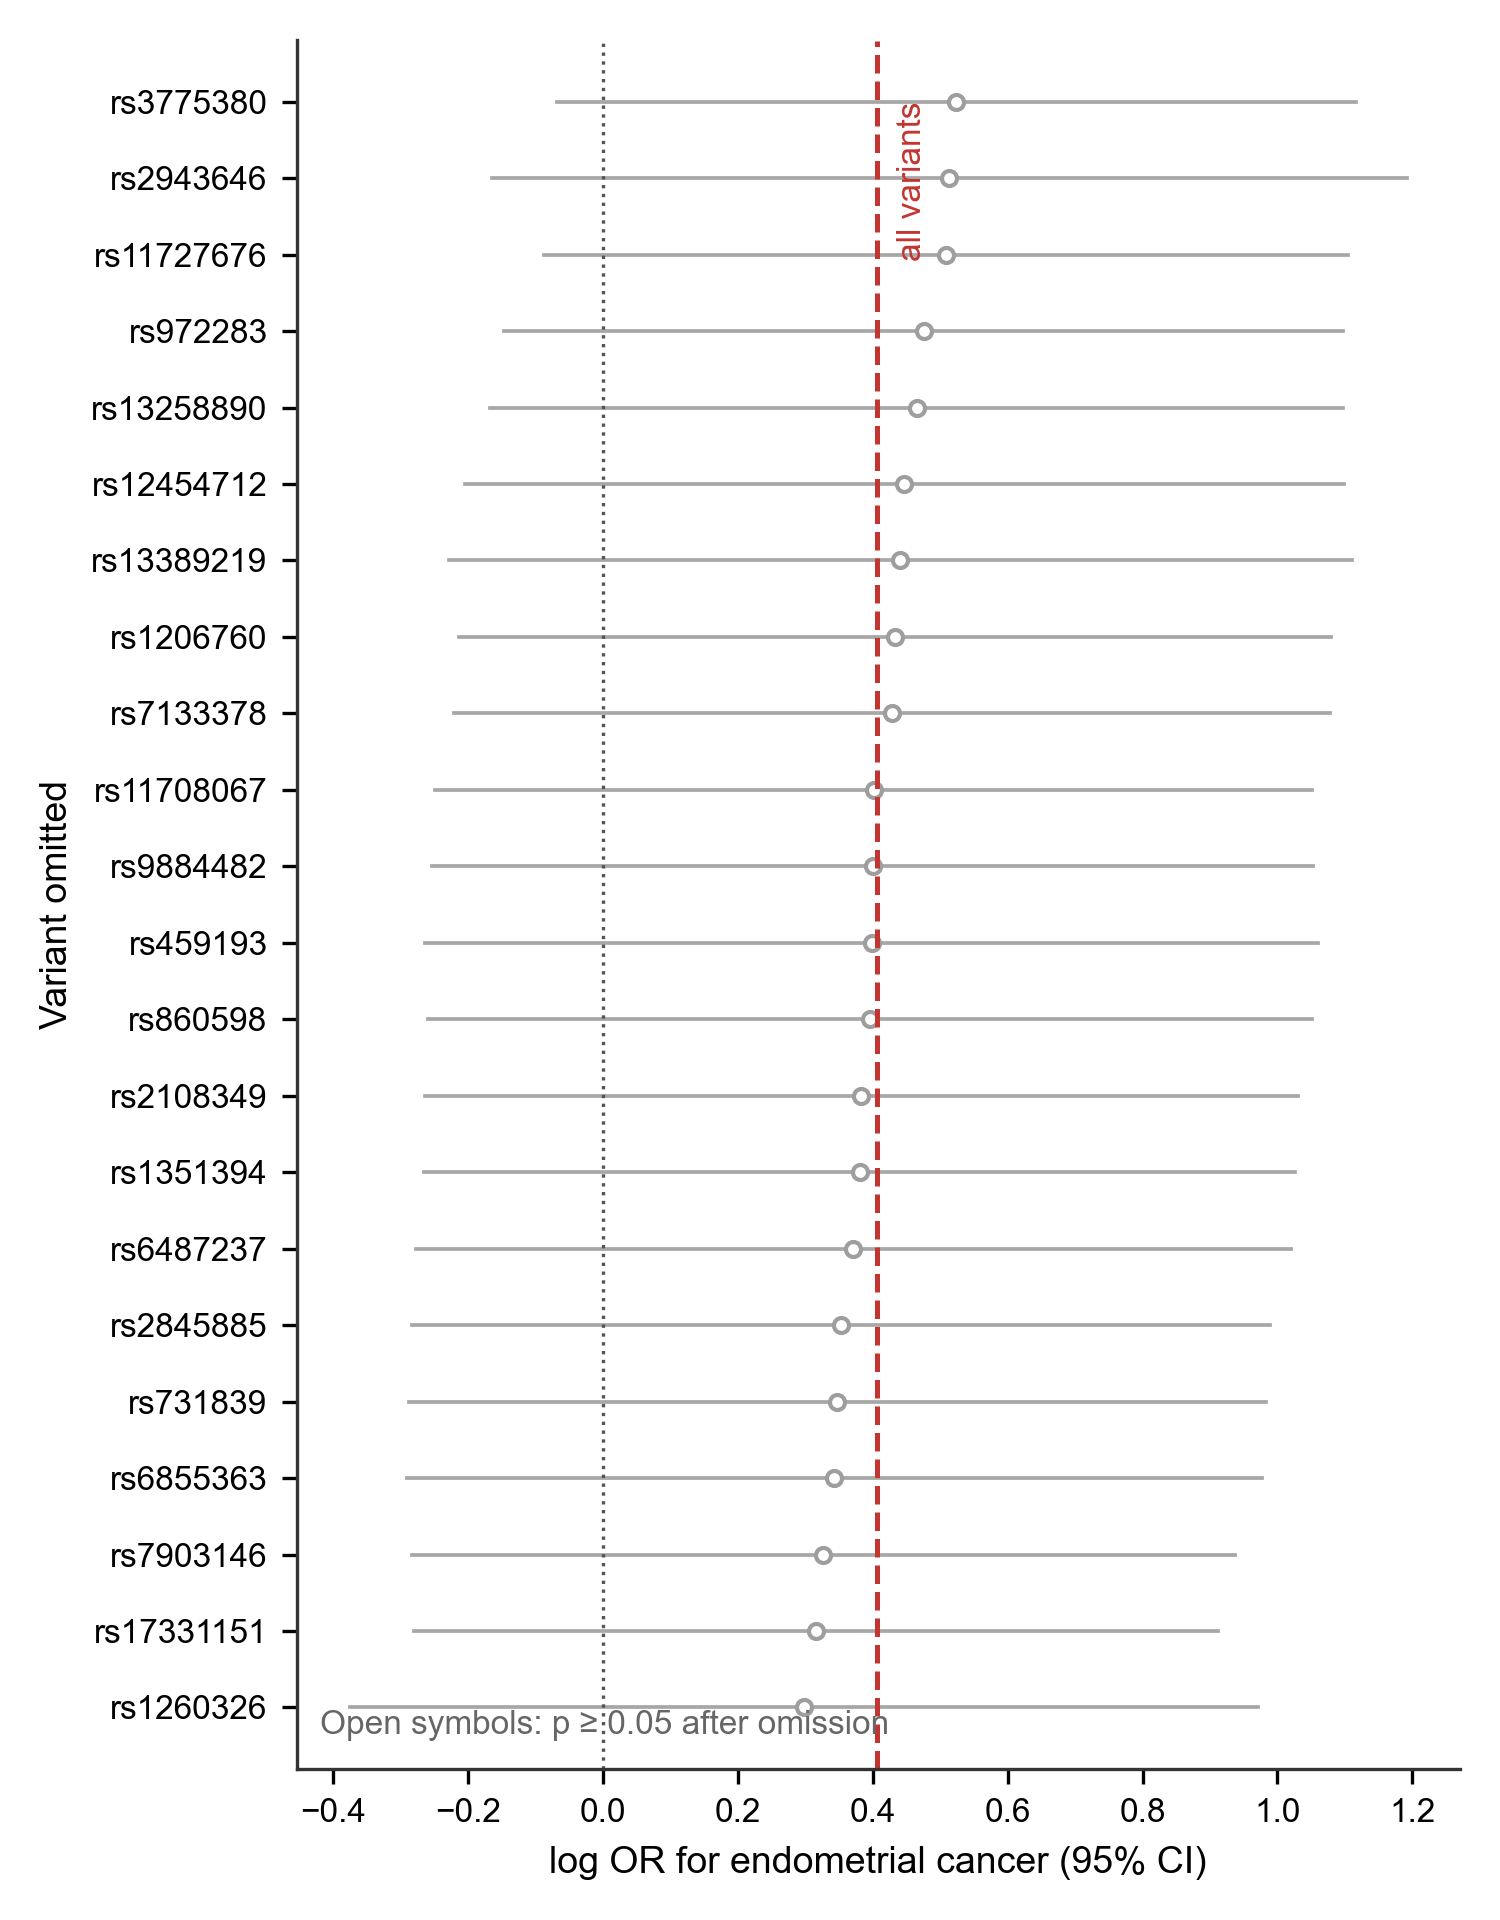
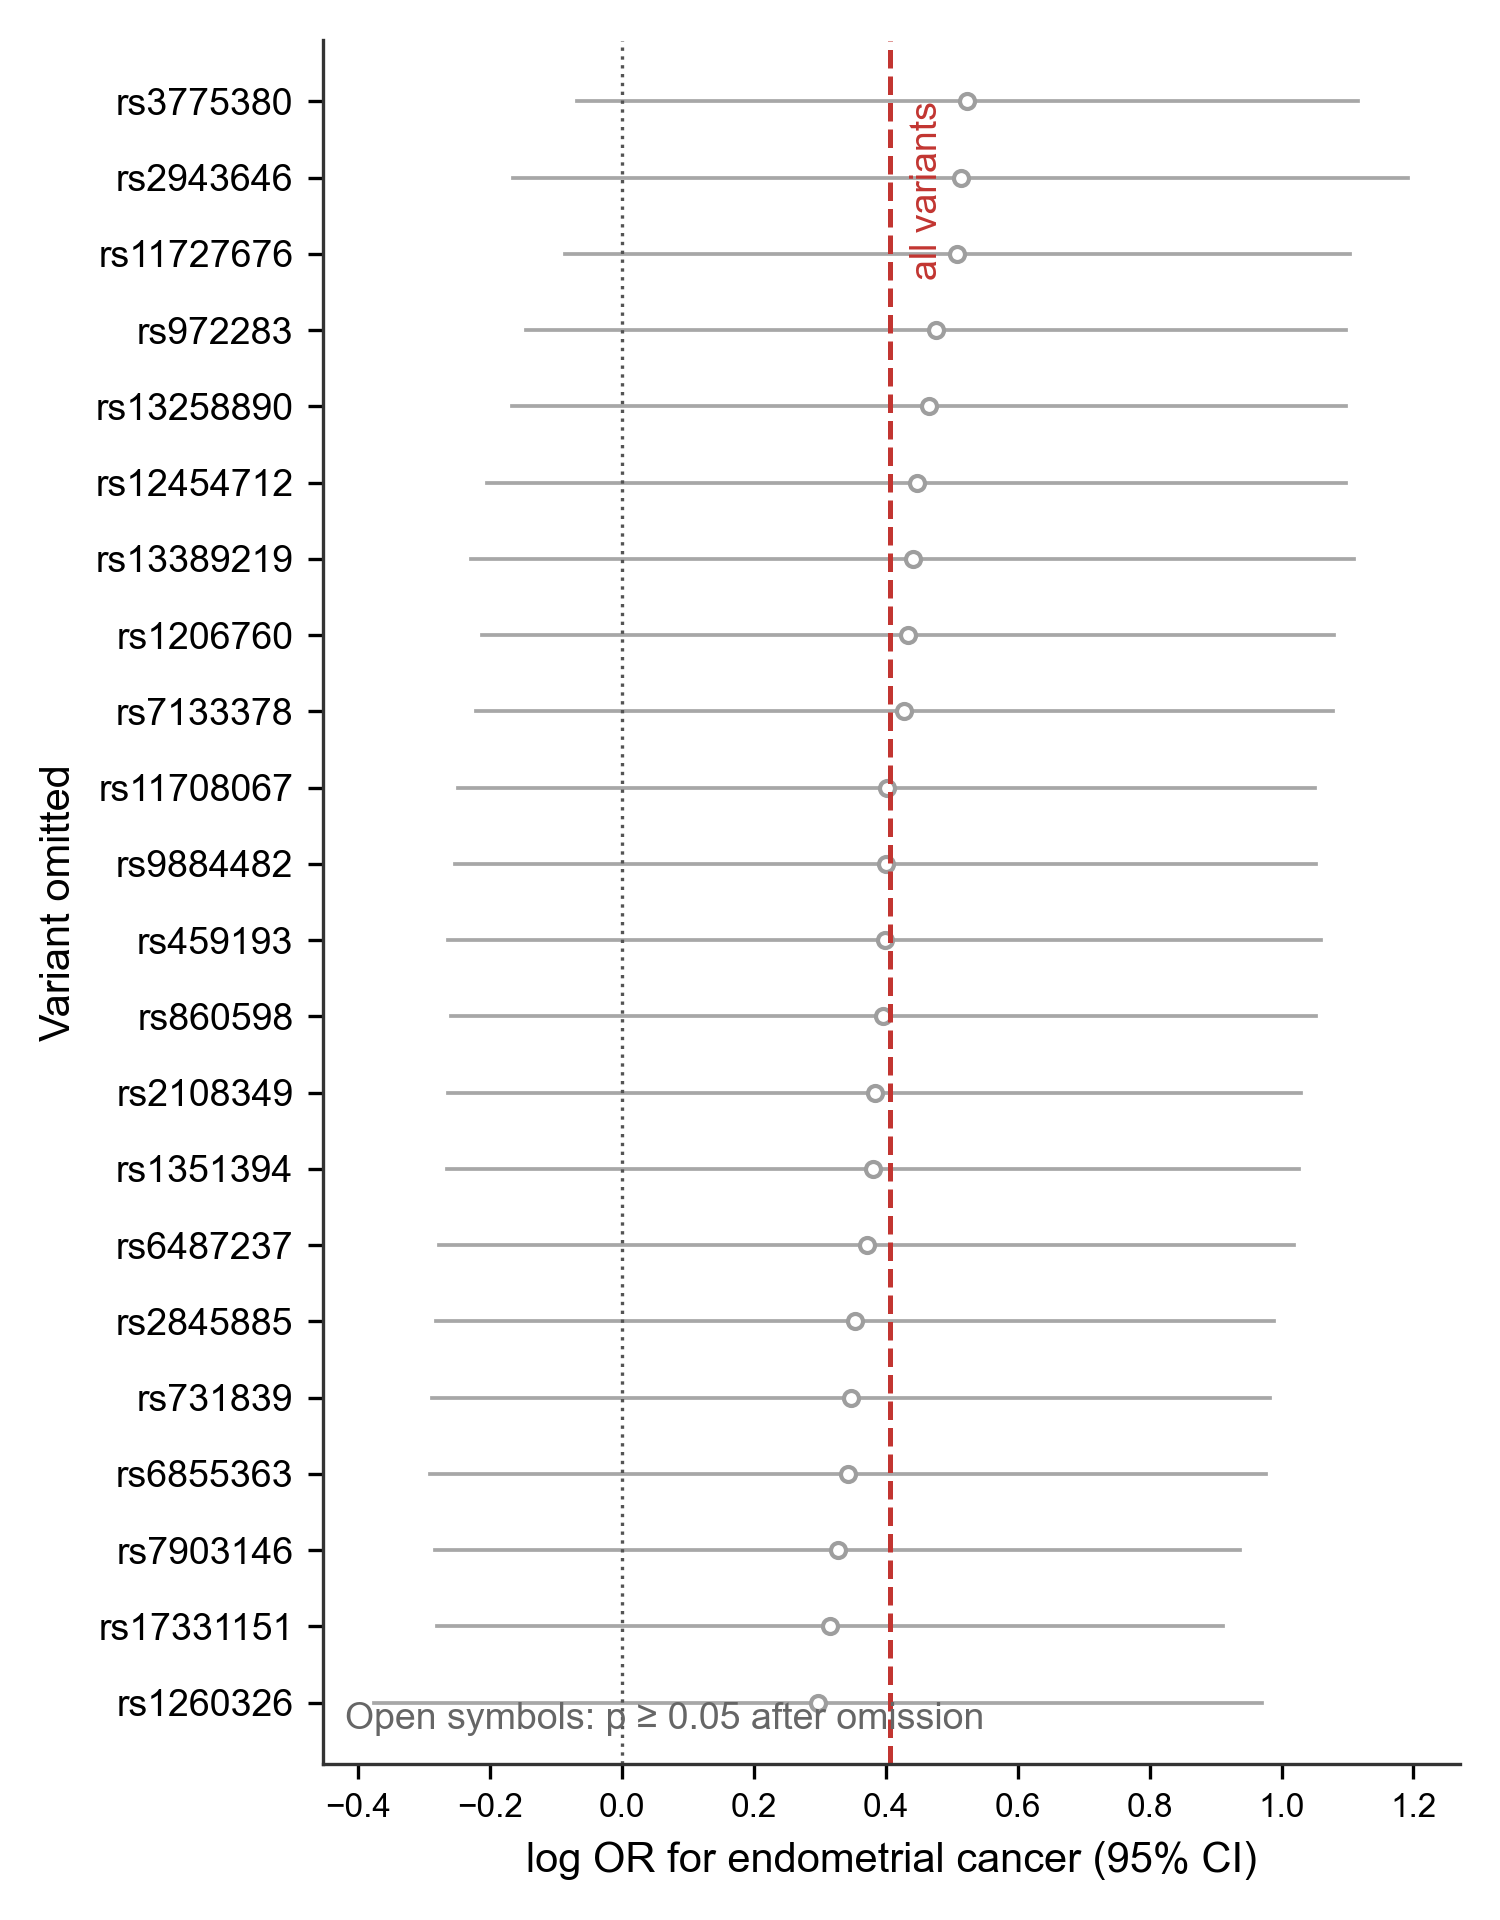
Add a contents list to the supplementary material
- \hdr now writes a contents entry, so the list cannot drift from the headings
- the contents heading mark is suppressed, keeping the running head as it was
  before (page number only)
- figure S2 fonts raised by one point: the panel is included at 0.72 text width,
  which shrank its 8 pt labels to 7.3 pt, below the 8 pt floor

diff --git a/code/07_figures/04_supplementary_mr_figures.py b/code/07_figures/04_supplementary_mr_figures.py
@@ -296,16 +296,16 @@ def leave_one_out_plot(loo: pd.DataFrame, full_beta: float) -> None:
     ax.axvline(0, color="0.33", lw=0.8, ls=":")
 
     ax.set_yticks(y)
-    ax.set_yticklabels([str(x) for x in loo.dropped_rsid], fontsize=8)
-    ax.set_ylabel("Variant omitted", fontsize=9)
-    ax.set_xlabel("log OR for endometrial cancer (95% CI)", fontsize=9)
+    ax.set_yticklabels([str(x) for x in loo.dropped_rsid], fontsize=9)
+    ax.set_ylabel("Variant omitted", fontsize=10)
+    ax.set_xlabel("log OR for endometrial cancer (95% CI)", fontsize=10)
     ax.set_ylim(-0.8, len(loo) - 0.2)
     ax.spines[["top", "right"]].set_visible(False)
-    ax.text(full_beta + 0.03, len(loo) - 1.0, "all variants", fontsize=8,
+    ax.text(full_beta + 0.03, len(loo) - 1.0, "all variants", fontsize=9,
             color=ZHU, rotation=90, va="top")
     ax.text(0.02, 0.02,
             f"Open symbols: p \u2265 {PARAMS.alpha:g} after omission",
-            transform=ax.transAxes, fontsize=8, color="0.40")
+            transform=ax.transAxes, fontsize=9, color="0.40")
 
     fig.tight_layout()
     fig.savefig(PATHS.figures / "figureS2_leave_one_out.pdf")
